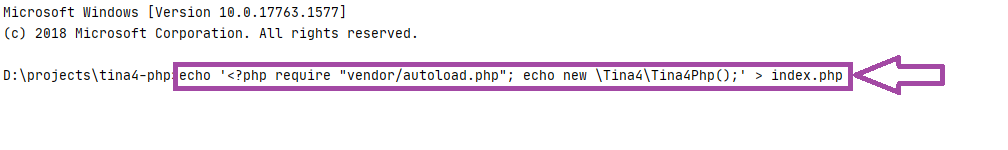
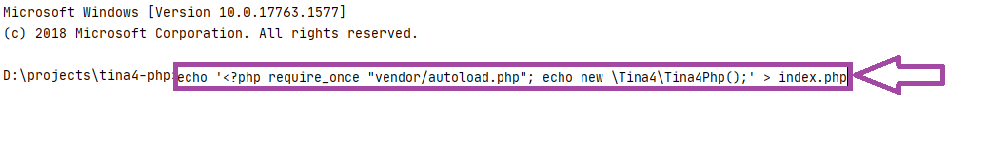
Added documentation & media for How Do I: create an api Embeded youtube tutorials Made changes to docs - removed env instruction

Changed region(s): [[0.1538, 0.4533, 0.8611, 0.56]]

diff --git a/routes/swaggerRoute.php b/routes/swaggerRoute.php
@@ -1,9 +1,10 @@
 <?php
 /**
- * Created by PhpStorm.
- * User: andrevanzuydam
- * Date: 2019-03-24
- * Time: 23:36
+* Tina4 : This Is Not A Framework
+* Created with : PHPStorm
+* User : andrevanzuydam
+* Copyright (C)
+* Contact : andrevanzuydam@gmail.com
  */
 
 //A swagger endpoint for annotating your API end points

diff --git a/docs/tutorials/createapi.md b/docs/tutorials/createapi.md
@@ -1,0 +1,112 @@
+<!--
+// Tina4 : This Is Not A Framework
+// Created with : PHPStorm
+// User : andrevanzuydam
+// Copyright (C)
+// Contact : andrevanzuydam@gmail.com
+-->
+# Create an API
+
+## Introduction
+
+Follow the steps below if you need to create an API end point to define the interactions between multiple software. 
+
+*Please Note* : After installing Tina4, you may delete the test.php file located inside the api folder. 
+
+### Step 1 - Create API file & subdirectories
+   
+All your API's must be stored in the api directory. For this example we will make a list of cars. 
+
+Create a directory inside the api folder and name it "cars". Now create a php file inside the "cars" subdirectory (eg. name the file cars).
+
+### Step 2 - Define routes
+
+Now that the API file has been created, we must define Routes. In the cars.php file you created inside the cars subdirectory, add the following to the script:
+
+```php
+<?php
+
+\Tina4\Get::add("/api/cars", function (\Tina4\Response $response) {
+
+    $cars = ["Rolls Royce", "Aston Martin", "Bugatti"];
+
+return $response ($cars, HTTP_OK, APPLICATION_JSON);
+});
+```
+Ensure that the paths are correct: 
+
+<div align="center" alt="API Routes">
+    <img src="images/api.png">
+</div>
+
+### Step 3 - Annotate API
+
+Now we will need to annotate the end point we created. This will be a description of the end point which will be used in Swagger. Its as easy as adding the following lines above the end point you created:
+
+```php
+<?php
+
+/**
+* @description My first API
+* @summary Returns list of cars
+* @tags Cars
+*/
+```
+
+Your script should look like this: 
+
+<div align="center" alt="API Routes + Annotation">
+    <img src="images/api1.png">
+</div>
+
+### Step 4 - Test API 
+
+Now we can test to check if our API is working. Spin up a webserver by running "php -S localhost:7145 index.php" in your IDE terminal or command line.
+                                                
+```php
+php -S localhost:7145 index.php
+```
+
+<div align="center" alt="Spin up WebServer">
+    <img src="images/webserver.png">
+</div>
+
+Now that the webserver is running, add "/swagger" to the URL:
+
+<div align="center" alt="Swagger">
+    <img src="images/api2.png">
+</div>
+
+A Swagger page will load and you will see the following which will include the data and annotations within the script created: 
+
+<div align="center" alt="Swagger Page">
+    <img src="images/api3.png">
+</div>
+
+Next click on the API and then click on "Try It Out" button...
+
+<div align="center" alt="Swagger Page">
+    <img src="images/api4.png">
+</div>
+ 
+Thereafter click on the execute button and you will see the following responses in the browser...  
+
+<div align="center" alt="Swagger Page">
+    <img src="images/api5.png">
+</div>
+
+<div align="center" alt="Swagger Page">
+    <img src="images/api6.png">
+</div>
+
+## Conclusion
+
+You just created a basic API using Tina4. You are on your way to becoming a serious Code Ninja or Kunoichi. Please reach out to the developers if you have any questions or suggestions. 
+
+For more information on API's please look at [FreeCodeCamp](https://www.freecodecamp.org/news/what-is-an-api-in-english-please-b880a3214a82/) or [How To Geek](https://www.howtogeek.com/343877/what-is-an-api/).
+
+Please checkout the Tina4 Basic API video tutorial:
+
+<iframe width="100%" height="600px" src="https://www.youtube.com/embed/LP5hVFh2lDQ" frameborder="0" allow="accelerometer; autoplay; clipboard-write; encrypted-media; gyroscope; picture-in-picture" allowfullscreen></iframe>
+
+Continue to [how do i](/tutorials/howdoi.md) or go back to [create a custom webpage - landing page](/tutorials/customwebsite.md).

diff --git a/docs/installation/install-tina4.md b/docs/installation/install-tina4.md
@@ -37,7 +37,9 @@ cd your_project_folder
 
 ##### Step 2 - Create index.php file 
 
-Once you've created the project folder and went into it via the command line, you will need to create an "index.php" file which has the Tina4 methods and functions in it. Run the following command in your command terminal to create the required "index.php" file and contents:
+Once you've created the project folder and went into it via the command line, you will need to create an "index.php" file which has the Tina4 methods and functions in it. You can create the file manually or whichever way is easiest for you.  
+
+Run the following command in your command terminal to create the required "index.php" file and contents:
 
 ###### For Windows 
 
@@ -52,7 +54,7 @@ echo ^<?php require_once "vendor/autoload.php"; echo new \Tina4\Tina4Php(); ^ > 
 ###### For Linux & Mac 
 
 ```php
-echo '<?php require "vendor/autoload.php"; echo new \Tina4\Tina4Php();' > index.php
+echo '<?php require_once "vendor/autoload.php"; echo new \Tina4\Tina4Php();' > index.php
 ```
     
 <div align="center" alt="Create index file for Linux & Mac">
@@ -79,25 +81,8 @@ Your project folder will now look like this...
     <img src="images/folder.png">
 </div>
 
-##### Step 4 - Create .env file
 
-Almost there... Now you must create an ".env" file in your project folder. This file will be used to setup constants in your project needed for Tina4. Run "echo .>.env" in your IDE terminal or command line.
-
-```php
-echo .>.env
-```
-    
-<div align="center" alt="Env Command">
-    <img src="images/envfile.png">
-</div> 
-
-Your project folder will now look like this... 
-
-<div align="center" alt="Folder">
-    <img src="images/folder1.png">
-</div>
-
-##### Step 5 - Confirm installation
+##### Step 4 - Confirm installation
 
 Now that we created and installed everything we need to run Tina4, we can test to check if it was successful. Spin up a webserver by running "php -S localhost:7145 index.php" in your IDE terminal or command line.
 

diff --git a/docs/tutorials/customwebsite.md b/docs/tutorials/customwebsite.md
@@ -5,11 +5,11 @@
 // Copyright (C)
 // Contact : andrevanzuydam@gmail.com
 -->
-# How to make a custom webpage - landing page
+# Create a custom webpage - landing page
 
 ## Introduction
 
-Follow these intructions if you would like to create a custom webpage - landing page.
+Follow these instructions if you would like to create a custom webpage - landing page.
 
 Go to the [Twig documentation](https://twig.symfony.com/doc/3.x/) page if you would like to familiarize yourself with Twig. It is important to note that when developing, it is recommended to break down your project into small components. This is done for flexibility for any changes required in future. 
 
@@ -196,4 +196,4 @@ You should see your website appear in the browser:
 
 You have just created a landing page for your website using Tina4. Please feel free to reach out to the developers if you have any questions or suggestions. 
 
-Continue to [how do i](/tutorials/howdoi.md) or go back to [how to make a webpage - landing page](/tutorials/website.md).
+Continue to [create an API](/tutorials/createapi.md) or go back to [create a webpage - landing page](/tutorials/website.md).

diff --git a/docs/_sidebar.md b/docs/_sidebar.md
@@ -9,12 +9,13 @@
 * [Tina4 - This is Not A Framework](/ "Tina4 - This is Not A Framework")
 * [Install Tina4](/installation/install-tina4.md "Install Tina4") 
 * [Recommendations](/recommendations/ "Recommendations")
-*Tutorials 
+*How do I? 
 ** [Install PHP](/installation/install-php.md "Prerequisites - Install PHP")
 ** [Install Composer](/installation/install-composer.md "Prerequisites - Install Composer")
 ** [Install OpenSSL](/installation/install-openssl.md "Prerequisites - Install OpenSSL")
 ** [Install IDE Tool](/installation/install-ide.md "Prerequisites - Install IDE Tool")
-** [How to make a webpage - landing page](/tutorials/website.md "How to make a webpage - landing page")
-** [How to make a custom webpage - landing page](/tutorials/customwebsite.md "How to make a custom webpage - landing page")
+** [Create a webpage - landing page](/tutorials/website.md "How to make a webpage - landing page")
+** [Create a custom webpage - landing page](/tutorials/customwebsite.md "How to make a custom webpage - landing page")
+** [Create an API](/tutorials/createapi.md "How to make an API")
 * [How do I?](/tutorials/howdoi.md)
   

diff --git a/docs/tutorials/website.md b/docs/tutorials/website.md
@@ -5,7 +5,7 @@
 // Copyright (C)
 // Contact : andrevanzuydam@gmail.com
 -->
-# How to make a webpage - landing page
+# Create a webpage - landing page
 
 ## Introduction
 
@@ -122,4 +122,4 @@ You should see your website appear in the browser:
 
 You have just created a landing page for your website using Tina4. Please feel free to reach out to the developers if you have any questions or suggestions. 
 
-Continue to [how to make a custom webpage - landing page](/tutorials/customwebsite.md) or go back to  [install ide tool](/installation/install-ide.md).
+Continue to [create a custom webpage - landing page](/tutorials/customwebsite.md) or go back to  [install ide tool](/installation/install-ide.md).

diff --git a/docs/README.md b/docs/README.md
@@ -40,4 +40,6 @@ These are the tools you need for Tina4
 * Bloggers
 * Content Creators
 
+<iframe width="100%" height="600px" src="https://www.youtube.com/embed/9NDpHVlYIOo" frameborder="0" allow="accelerometer; autoplay; clipboard-write; encrypted-media; gyroscope; picture-in-picture" allowfullscreen></iframe>
+
 Continue to [install tina4](installation/install-tina4.md) or [recommendations](recommendations.md).
